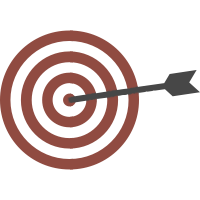
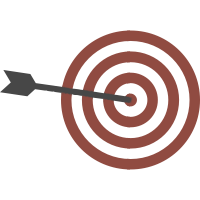
Editing job post layout -GH

diff --git a/src/infinite.js b/src/infinite.js
@@ -102,7 +102,7 @@ function savePost(i) {
 	console.log(i);
 	selectedPost = document.getElementById("save-button-" + i);
 	selectedPost.style.background = "url('https://thecareerdeer.com/src/images/save-checked.png')";
-	selectedPost.style.backgroundSize = "52px 52px";
+	selectedPost.style.backgroundSize = "65px 65px";
 }
 
 function getDate(dateIn) {
@@ -183,9 +183,9 @@ function addDataToDOM(data) {
 			<img style="display: inline-block; float: left; -webkit-box-shadow: 0px 3px 14px 5px rgba(0,0,0,0.025); box-shadow: 0px 3px 13px 5px rgba(0,0,0,0.035);" src="${data.post.company_logo}" alt="${data.post.company_name}" />
 			<div style="float: left; display: inline-block; margin-left: 10px; margin-top: 6px; font-size: 14px; color: #333; font-weight: bold;">${data.post.company_name}</div>
 			</a>
-			<input type="button" style="display: inline-block; float: right; height: 52px; width: 52px; margin-top: -5px; margin-right: -13px; border: none; background: url('https://thecareerdeer.com/src/images/save-unchecked.png'); background-size: 52px 52px;" onclick="savePost(` + count + `)" id="save-button-` + count + `" />
+			<input type="button" style="display: inline-block; float: right; height: 65px; width: 65px; margin-top: -14px; margin-right: -24px; border: none; background: url('https://thecareerdeer.com/src/images/save-unchecked.png'); background-size: 65px 65px;" onclick="savePost(` + count + `)" id="save-button-` + count + `" />
 		</div>
-		<h2 class="title" style="margin-top: -10px; margin-left: 6px; display: flex;"><a style="margin-top: -10px" href="${data.post.url}">${data.post.title}<img src="https://thecareerdeer.com/src/images/icon-link.png" style="width: 24px; height: 24px; position: relative; top: 2px; margin: 2px 0px 0px 10px;" /></a></h2>
+		<h2 class="title" style="margin-top: -2px; margin-left: 6px; display: flex;"><a style="margin-top: -10px" href="${data.post.url}">${data.post.title}<img src="https://thecareerdeer.com/src/images/icon-link.png" style="width: 24px; height: 24px; position: relative; top: 2px; margin: 2px 0px 0px 8px;" /></a></h2>
 		<p class="text" style="margin-top: 5px; font-size: 14px; margin-left: 8px;">in <a style="font-size: 15px; cursor: pointer;">${data.post.category} Jobs</a></p>
 		<p class="text" style="margin-top: 7px; font-size: 15px; margin-left: 8px;">Remote` + information + `</p>
 		<div class="user-info">
